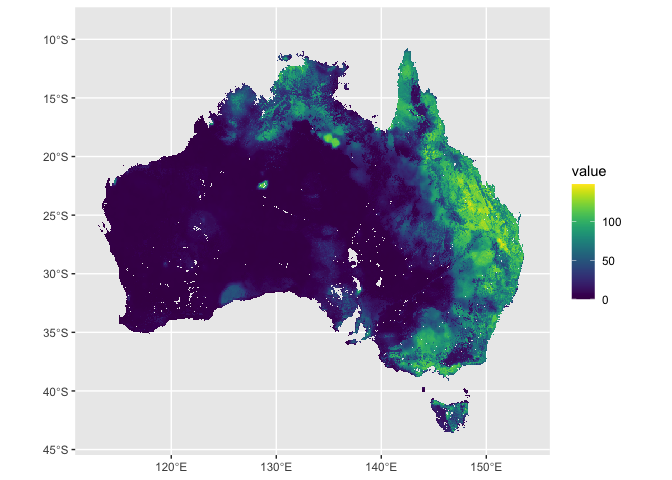
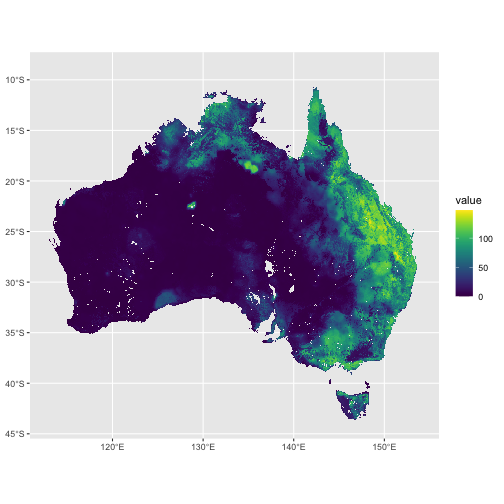
Deploying to gh-pages from @ AAGI-AUS/nert@35e9447bb0ce4adf2e1a8face442742c223a525e 🚀

diff --git a/index.html b/index.html
@@ -93,7 +93,15 @@
 <span><span class="fu"><a href="https://rdrr.io/r/base/options.html" class="external-link">options</a></span><span class="op">(</span>pkg.build_vignettes <span class="op">=</span> <span class="cn">TRUE</span><span class="op">)</span></span>
 <span></span>
 <span><span class="kw">if</span> <span class="op">(</span><span class="op">!</span><span class="kw"><a href="https://rdrr.io/r/base/library.html" class="external-link">require</a></span><span class="op">(</span><span class="st"><a href="https://pak.r-lib.org/" class="external-link">"pak"</a></span><span class="op">)</span><span class="op">)</span> <span class="op">{</span></span>
-<span>  <span class="fu"><a href="https://rdrr.io/r/utils/install.packages.html" class="external-link">install.packages</a></span><span class="op">(</span><span class="st">"pak"</span><span class="op">)</span></span>
+<span>  <span class="fu"><a href="https://rdrr.io/r/utils/install.packages.html" class="external-link">install.packages</a></span><span class="op">(</span></span>
+<span>    <span class="st">"pak"</span>,</span>
+<span>    repos <span class="op">=</span> <span class="fu"><a href="https://rdrr.io/r/base/sprintf.html" class="external-link">sprintf</a></span><span class="op">(</span></span>
+<span>      <span class="st">"https://r-lib.github.io/p/pak/stable/%s/%s/%s"</span>,</span>
+<span>      <span class="va">.Platform</span><span class="op">$</span><span class="va">pkgType</span>,</span>
+<span>      <span class="fu"><a href="https://rdrr.io/r/base/Version.html" class="external-link">R.Version</a></span><span class="op">(</span><span class="op">)</span><span class="op">$</span><span class="va">os</span>,</span>
+<span>      <span class="fu"><a href="https://rdrr.io/r/base/Version.html" class="external-link">R.Version</a></span><span class="op">(</span><span class="op">)</span><span class="op">$</span><span class="va">arch</span></span>
+<span>    <span class="op">)</span></span>
+<span>  <span class="op">)</span></span>
 <span><span class="op">}</span></span>
 <span></span>
 <span><span class="fu">pak</span><span class="fu">::</span><span class="fu"><a href="https://pak.r-lib.org/reference/pak.html" class="external-link">pak</a></span><span class="op">(</span><span class="st">"AAGI-AUS/nert"</span><span class="op">)</span></span>
@@ -119,7 +127,7 @@
 <p>Extract Soil Moisture for Corrigin and Merriden, WA and Tamworth, NSW given latitude and longitude values for each.</p>
 <div class="sourceCode" id="cb5"><pre class="downlit sourceCode r">
 <code class="sourceCode R"><span><span class="kw"><a href="https://rdrr.io/r/base/library.html" class="external-link">library</a></span><span class="op">(</span><span class="va"><a href="https://rspatial.org/" class="external-link">terra</a></span><span class="op">)</span></span>
-<span><span class="co">#&gt; terra 1.9.11</span></span>
+<span><span class="co">#&gt; terra 1.9.34</span></span>
 <span><span class="co">#&gt; </span></span>
 <span><span class="co">#&gt; Attaching package: 'terra'</span></span>
 <span><span class="co">#&gt; The following object is masked from 'package:knitr':</span></span>
@@ -181,9 +189,9 @@
 <code class="sourceCode R"><span><span class="fu"><a href="https://rdrr.io/r/utils/citation.html" class="external-link">citation</a></span><span class="op">(</span><span class="st">"nert"</span><span class="op">)</span></span>
 <span><span class="co">#&gt; To cite package 'nert' in publications use:</span></span>
 <span><span class="co">#&gt; </span></span>
-<span><span class="co">#&gt;   Sparks A, Pipattungsakul W, Edson R, Rogers S, Moldovan M (2026). _nert: An</span></span>
-<span><span class="co">#&gt;   API Client for TERN Data_. R package version 0.0.1.9000, commit</span></span>
-<span><span class="co">#&gt;   05d08aa660d47856bd897faa2d2d4c2dbdbbaa53, &lt;https://github.com/AAGI-AUS/nert&gt;.</span></span>
+<span><span class="co">#&gt;   Sparks A, Pipattungsakul W, Edson R, Rogers S, Moldovan M (2026).</span></span>
+<span><span class="co">#&gt;   _nert: An API Client for TERN Data_. R package version 0.0.3.9000,</span></span>
+<span><span class="co">#&gt;   &lt;https://aagi-aus.github.io/nert/&gt;.</span></span>
 <span><span class="co">#&gt; </span></span>
 <span><span class="co">#&gt; A BibTeX entry for LaTeX users is</span></span>
 <span><span class="co">#&gt; </span></span>
@@ -191,8 +199,8 @@
 <span><span class="co">#&gt;     title = {nert: An API Client for TERN Data},</span></span>
 <span><span class="co">#&gt;     author = {Adam H. Sparks and Wasin Pipattungsakul and Russell Edson and Sam Rogers and Max Moldovan},</span></span>
 <span><span class="co">#&gt;     year = {2026},</span></span>
-<span><span class="co">#&gt;     note = {R package version 0.0.1.9000, commit 05d08aa660d47856bd897faa2d2d4c2dbdbbaa53},</span></span>
-<span><span class="co">#&gt;     url = {https://github.com/AAGI-AUS/nert},</span></span>
+<span><span class="co">#&gt;     note = {R package version 0.0.3.9000},</span></span>
+<span><span class="co">#&gt;     url = {https://aagi-aus.github.io/nert/},</span></span>
 <span><span class="co">#&gt;   }</span></span></code></pre></div>
 </div>
 </div>

diff --git a/index.md b/index.md
@@ -51,7 +51,15 @@ o <- options() # store original options
 options(pkg.build_vignettes = TRUE)
 
 if (!require("pak")) {
-  install.packages("pak")
+  install.packages(
+    "pak",
+    repos = sprintf(
+      "https://r-lib.github.io/p/pak/stable/%s/%s/%s",
+      .Platform$pkgType,
+      R.Version()$os,
+      R.Version()$arch
+    )
+  )
 }
 
 pak::pak("AAGI-AUS/nert")
@@ -83,7 +91,7 @@ given latitude and longitude values for each.
 ``` r
 
 library(terra)
-#> terra 1.9.11
+#> terra 1.9.34
 #> 
 #> Attaching package: 'terra'
 #> The following object is masked from 'package:knitr':
@@ -170,9 +178,9 @@ To cite nert:
 citation("nert")
 #> To cite package 'nert' in publications use:
 #> 
-#>   Sparks A, Pipattungsakul W, Edson R, Rogers S, Moldovan M (2026). _nert: An
-#>   API Client for TERN Data_. R package version 0.0.1.9000, commit
-#>   05d08aa660d47856bd897faa2d2d4c2dbdbbaa53, <https://github.com/AAGI-AUS/nert>.
+#>   Sparks A, Pipattungsakul W, Edson R, Rogers S, Moldovan M (2026).
+#>   _nert: An API Client for TERN Data_. R package version 0.0.3.9000,
+#>   <https://aagi-aus.github.io/nert/>.
 #> 
 #> A BibTeX entry for LaTeX users is
 #> 
@@ -180,7 +188,7 @@ citation("nert")
 #>     title = {nert: An API Client for TERN Data},
 #>     author = {Adam H. Sparks and Wasin Pipattungsakul and Russell Edson and Sam Rogers and Max Moldovan},
 #>     year = {2026},
-#>     note = {R package version 0.0.1.9000, commit 05d08aa660d47856bd897faa2d2d4c2dbdbbaa53},
-#>     url = {https://github.com/AAGI-AUS/nert},
+#>     note = {R package version 0.0.3.9000},
+#>     url = {https://aagi-aus.github.io/nert/},
 #>   }
 ```